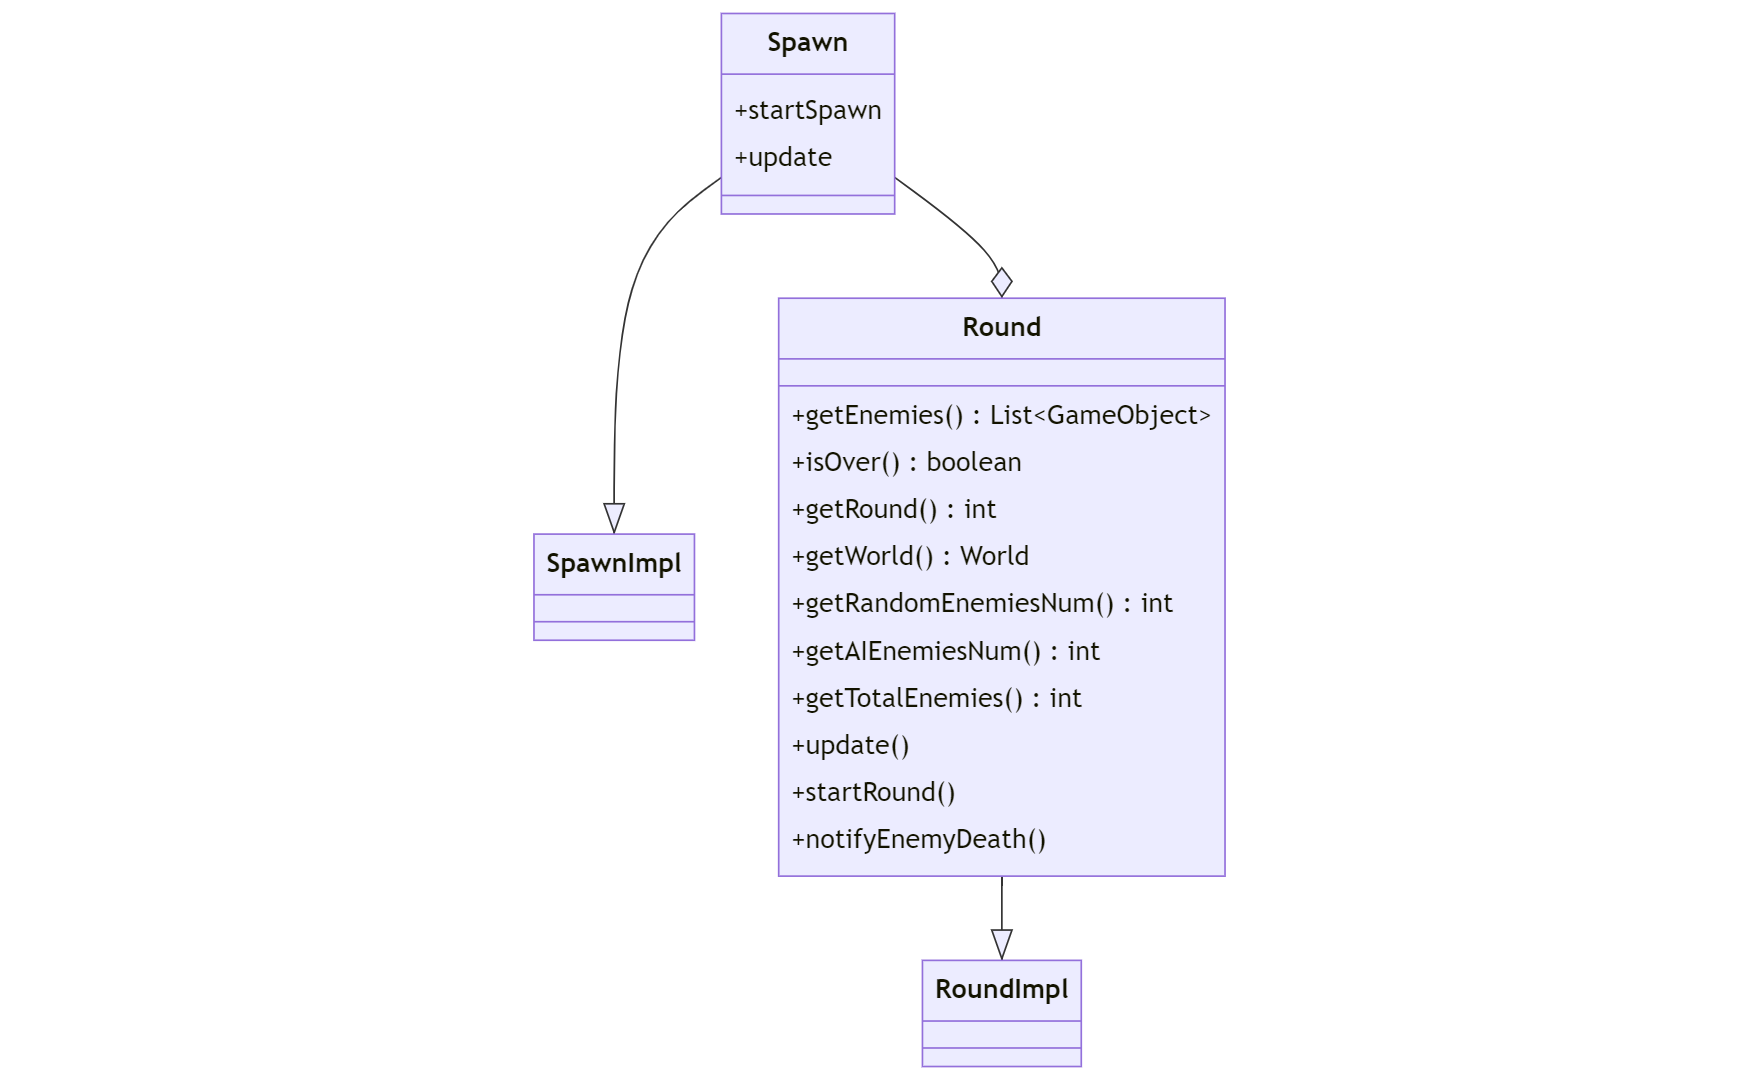
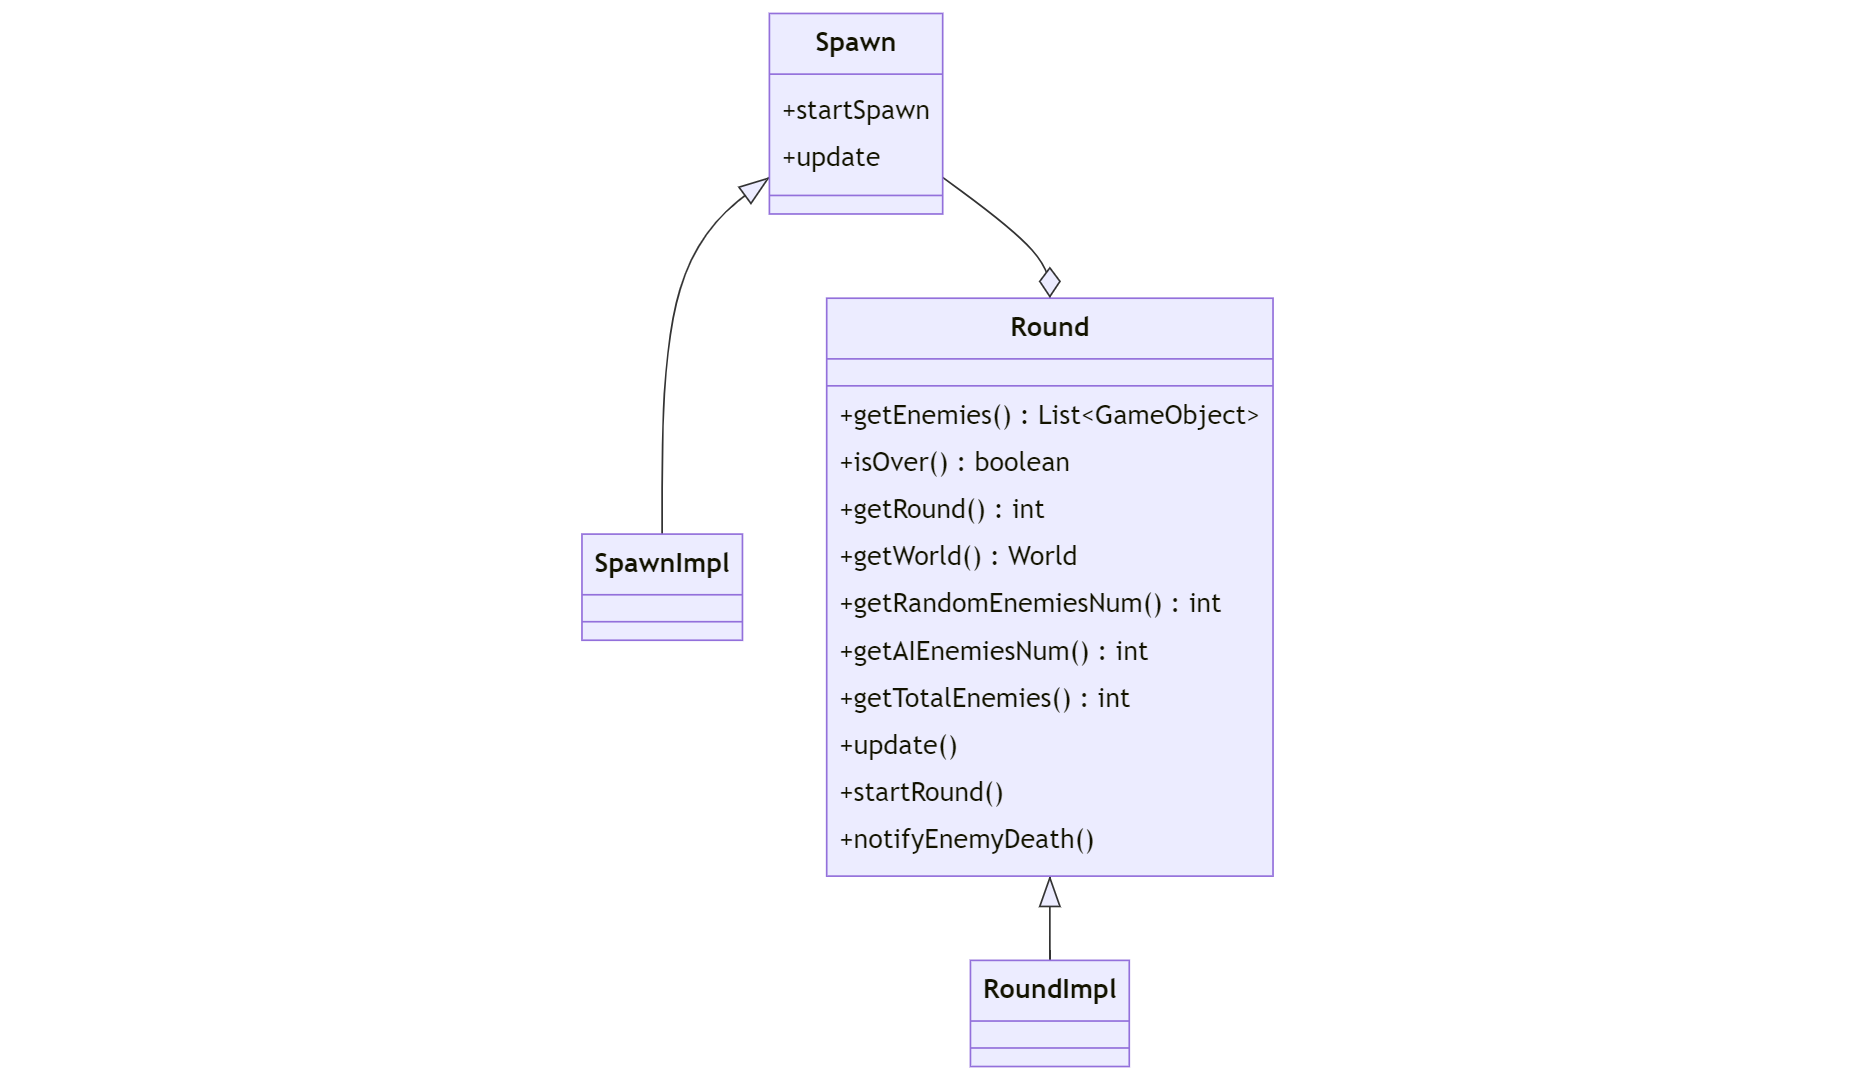
[DOC] Modified Bullet,SideScenes and Spawn_Round analysis

diff --git a/report/mermaid_diagrams/Bullet_analysis.md b/report/mermaid_diagrams/Bullet_analysis.md
@@ -1,12 +1,12 @@
 classDiagram
 
-    Component ..|> AbstractComponent
-    AbstractComponent --|> AbstractFireComponent
-    BulletComponent --|> AbstractComponent
-    BulletComponent --|> NotifiableComponent
-    EnemiesFireComponent --|> AbstractFireComponent
-    PlayerFireComponent --|> AbstractFireComponent
-    PlayerFireComponent --|> NotifiableComponent
+    Component <|.. AbstractComponent
+    AbstractComponent <|-- AbstractFireComponent
+    BulletComponent <|-- AbstractComponent
+    BulletComponent <|-- NotifiableComponent
+    EnemiesFireComponent <|-- AbstractFireComponent
+    PlayerFireComponent <|-- AbstractFireComponent
+    PlayerFireComponent <|-- NotifiableComponent
     class Component {
         <<Interface>>
     }
@@ -22,7 +22,6 @@ classDiagram
 
     class AbstractFireComponent {
         <<abstract>>
-        +getCurrentFrame(): int
         *canshoot(): boolean
     }
 

diff --git a/report/mermaid_diagrams/SideScenes_analysis.md b/report/mermaid_diagrams/SideScenes_analysis.md
@@ -1,8 +1,9 @@
 classDiagram
 
-    SideScenesController --|> PlayerInfoController
-    SideScenesController --|> RoundInfoController
-    Scene --|> GameScene
+    PlayerInfoController <|-- SideScenesController
+    RoundInfoController <|-- SideScenesController
+    Scene <|-- GameScene
+    SideScenesController --o GameScene
     class SideScenesController {
         <<interface>>
         +updateGraphics()

diff --git a/report/mermaid_diagrams/Round_Spawn_analysis.md b/report/mermaid_diagrams/Round_Spawn_analysis.md
@@ -1,7 +1,7 @@
 classDiagram
 
-    Spawn --|> SpawnImpl
-    Round --|> RoundImpl
+    Spawn <|-- SpawnImpl
+    Round <|-- RoundImpl
     Spawn --o Round
     class Spawn {
         +startSpawn
